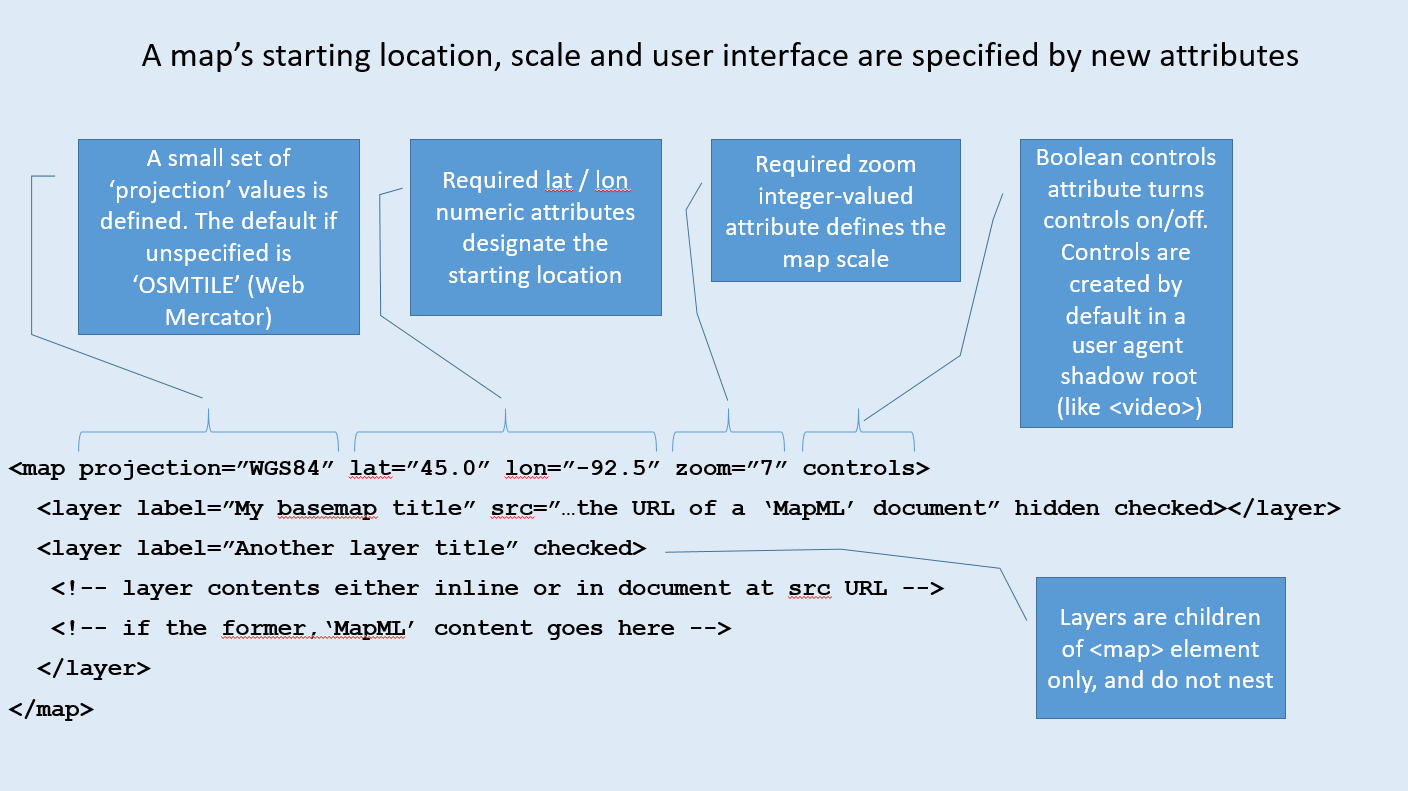
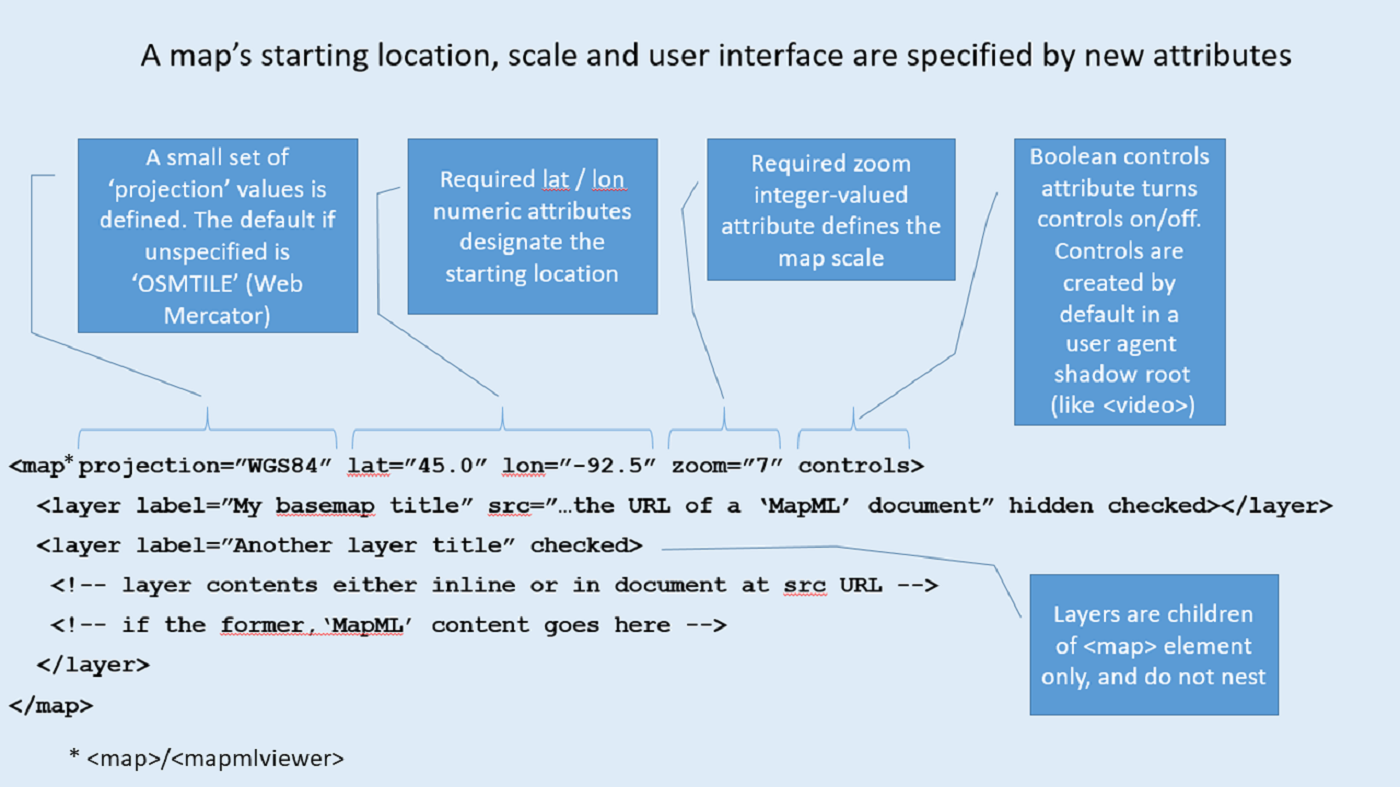
Revise and simplify top level explainer.

diff --git a/README.md b/README.md
@@ -8,149 +8,193 @@ Peter Rushforth
 
 <h2>Participate</h2>
 
-The W3C [Maps for HTML Community Group](https://www.w3.org/community/maps4html/)
-is iterating on the problem space.
-You can contribute to the on-going discussion and documentation of
-[Use Cases and Requirements for Standardizing Web Maps](https://maps4html.org/HTML-Map-Element-UseCases-Requirements/).
-Alternatively, if your organization is a member of the
-[Web Platform Incubator Community Group](https://www.w3.org/community/WICG/) (WICG)
-and you are able to contribute there but not elsewhere,
-please consider contributing through the [WICG forum on Web mapping](https://discourse.wicg.io/c/web-mapping/22).
+The W3C [Maps for HTML Community Group](https://www.w3.org/community/maps4html/) 
+is iterating on the problem space. 
+You can contribute to the on-going discussion and documentation of 
+[Use Cases and Requirements for Standardizing Web Maps](https://maps4html.org/HTML-Map-Element-UseCases-Requirements/). 
+Alternatively, if your organization is a member of the 
+[Web Platform Incubator Community Group](https://www.w3.org/community/WICG/) (WICG) 
+and you are able to contribute there but not elsewhere, 
+please consider contributing through the [WICG forum on Web mapping](https://discourse.wicg.io/c/web-mapping/22). 
 We would love to hear from you.
 
 [Issue tracker for this explainer](https://github.com/Maps4HTML/MapML-Proposal/issues)
 
 <h2 id="introduction">Introduction</h2>
 
-Web maps are a well-established domain of Web design, and there exist popular, mature open and closed source JavaScript libraries to create and manage Web maps.  JavaScript web maps are often containers for publicly available and funded open geospatial and statistical data.  Yet despite established JavaScript libraries and server-side API standards, Web maps remain a complex Web niche that is difficult to learn, due to their extensive prerequisite knowledge requirements. As a result, there exists a community of Web map developers which contributes very little to the Web platform and which may possess little understanding that the Web exists as a distinct and standards-based platform. Similarly, the Web platform seems mostly oblivious to Web maps and their requirements, and provides no direct support for maps. In other words, Web maps existence in the Web platform depends on intermediaries which “abstract away” the Web platform.  
+Web maps are a well-established class of Web application, and there exist popular, 
+mature open- and closed-source JavaScript frameworks to create and manage Web maps.  
+Web maps, considered from the perspective of the Extensible Web Manifesto, represent 
+a “high-level API”.  The many low-level browser APIs already used by the popular 
+JavaScript mapping frameworks demonstrate that Web maps may be a good fit for 
+inclusion into the Web platform standards at this time.  
 
-The goal of this proposal is to bridge the gap between the two communities in a way that may have positive benefits for both sides. On the one hand, the Web mapping community is burdened by intermediaries and the consequent barriers to widespread creation and use of maps and public map information. On the other hand, the Web platform, especially the mobile Web, needs more and better high-level features and less JavaScript. Simple yet extensible Web maps in HTML, that equally leverage the other platform standards, is the feature that both communities need to come together to improve usability and accessibility for users.
+MapML is the declarative API that results from our community’s effort to abstract 
+and polyfill Web mapping requirements as custom elements, using one of the mature 
+open source Web mapping frameworks so as to not have to start “from scratch”.  
+The process of polyfilling Web maps as MapML has also identified missing low-level 
+platform APIs that will be essential to complete the implementation of Web maps 
+as a standard platform feature.
 
 <h2>Contents</h2>
 
 - [The Problem](#the-problem)
 - [The Proposal](#the-proposal)
-  - [Goals](#goals)
-  <!-- - [Non-Goals](#non-goals) -->
-  - [A High-Level API](#a-high-level-api)
-  - [Key Scenarios](#key-scenarios)
+- [Goals](#goals)
+- [Use Cases and Requirements](#use-cases-and-requirements)
+- [Key Scenarios](#key-scenarios)
 - [Detailed design discussion](#detailed-design-discussion)
-  - [Use Cases and Requirements](#use-cases-and-requirements)
-  - [W3C/OGC Joint Workshop on Maps for the Web](#w3c-ogc-joint-workshop-on-maps-for-the-web)
 - [Considered Alternative Designs of MapML](#considered-alternative-designs-of-mapml)
-- [Alternative Approaches](#alternative-approaches)
 - [Stakeholder Feedback / Opposition](#stakeholder-feedback--opposition)
 - [References and Acknowledgements](#references-and-acknowledgements)
 
 <h2 id="the-problem">The Problem</h2>
 
-Web maps today are created using a wide range of technology stacks on both the client and server, some standard, some open, and some proprietary.  The complexity of choices and the wide variety of technologies required to create Web maps results in <a href="https://github.com/Malvoz/web-maps-wcag-evaluation/blob/master/README.md">maps of highly variable usability and accessibility</a>.  This has in turn led to the creation of centralized mapping services, that may or may not be implemented using Web technology; in some cases, mapping services which work well on desktop Web browsers mostly bypass the mobile Web through creation of mobile platform mapping apps, where the ‘rules of the Web platform’ (such as device permissions) do not apply.  Some centralized mapping services, both on the Web but especially on mobile technology platforms, are constructed for the purpose of tracking the user’s location and their locations of (search) interest, and using that private location information to market and re-sell highly targeted advertising. 
+Web maps are <span style="text-decoration:underline;">not interoperable</span>. 
+For example, users cannot “mash up” a Leaflet map and an OpenLayers map, two of 
+the most popular open source Web mapping frameworks, even if they show the same 
+exact data source in the exact same location.  (The situation is even more 
+non-interoperable between open map data and privately managed map databases, 
+where the sole client may be that provided by the owner of the map data. The 
+lack of legal interoperability of map data is outside the scope of standardization.)
 
-The problem to be solved, therefore, is to reduce the threshold complexity of creating accessible, usable and privacy-preserving Web maps, and to enable full use of Web platform standards such as HTML, URL, SVG, CSS and JavaScript in map creation, styling, presentation and interaction. 
+The lack of Web map interoperability affects developers. The skill set and 
+vocabulary required to create a robust map is different from one mapping framework 
+to the next. They can be complex to <span style="text-decoration:underline;">create</span>, 
+with visual styling of map information being a discipline that is generally 
+outside the realm of Web technology, and different from one mapping framework to 
+the next.
+
+Web maps are [typically not accessible](https://github.com/Malvoz/web-maps-wcag-evaluation/blob/master/README.md). 
+The knowledge required to <span style="text-decoration:underline;">use</span> Web 
+maps is different for each framework, with resulting accessibility challenges 
+arising from inconsistencies in user experience across frameworks.
+
+Location information is <span style="text-decoration:underline;">not searchable</span>, 
+except through specialized portals. Web maps are not crawlable; even if the JavaScript 
+that creates a Web map is executed by a crawler, the resulting DOM requires a 
+sighted user to interpret it, because it only has visual semantics.  The DOM created 
+also varies from framework to framework. As a result, users cannot search for 
+location information, embedded as it is in program code, except in specialized 
+mapping portals. Location search may be even more important for non-visual users 
+especially in a mobile context, but it is impossible because of today’s Web mapping 
+frameworks.
 
 <h2 id="the-proposal">The Proposal</h2>
 
-To solve <a href="#the-problem">the problem</a>, our approach is to identify the Web map processing that is currently performed by JavaScript libraries which should instead be defined - in accordance with the <a href="https://w3ctag.github.io/design-principles/">Web Platform Design Principles</a> - as elements and attributes supported by CSS, while at the same time, we identify the Web map processing that should remain in the JavaScript domain as a standardized DOM API. By building the core behaviour of maps and layers into HTML, Web authors who want to build simple maps into their pages can easily do so, supported by core platform technologies, with the power of JavaScript available to enhance the core map and layer behaviour.
+The proposal is to create accessible, searchable and usable Web maps, by integrating 
+mapping elements into HTML supported by the CSS and DOM standards.
 
-By lowering the barriers for Web map authors in this way, we will improve the usability, and standardize the accessibility of Web maps.  Through making map creation a matter of applying appropriately crafted Web platform standards, we will create the conditions to multiply the choices of mapping services offered to authors and users of the Web. 
+This extension to HTML would create a `&lt;map>/&lt;mapmlviewer>*` viewer widget 
+that contains default controls in a user agent shadow root, (similar to `&lt;video>` 
+today), with child `&lt;layer>` elements which are light DOM, which may either 
+refer to remote map source or contain map-related markup (the vocabulary of which 
+is also part of this proposal):
 
-In improving the choices among mapping services available through the Web platform, we will enable the growth of services that offer alternate means of paying for maps other than in exchange for the user’s personal private information, and we will enable standardized Web map accessibility through addition of maps to HTML. Finally, by making it cheaper to create Web maps than to build mobile apps, we will improve the business rationale for choosing the mobile Web as a development platform, and in doing so we hope the (mobile) Web will benefit from increased ‘success’, or network effects.
+```html
+<mapmlviewer zoom="11" lat="48.8566" lon="2.3522" controls controlslist="nolayer noreload" projection="OSMTILE">
+  <layer src="https://example.com/mapml/osm/" checked crossorigin></layer>
+  <!-- more layers as required -->
+</mapmlviewer>
+```
+
+Please review  the [user documentation](https://maps4html.org/web-map-doc/docs/) 
+for the proposed declarative syntax and semantics, with examples.
+
+\* The name of the eventual root map widget element will be determined in consultation 
+with browser teams. “&lt;map>” is used by an existing element, and it may be 
+impossible or undesirable to overload the behavior of that element.
 
 <h3 id="goals">Goals</h3>
 
-- Define the means to allow authors to create dynamic,
-usable and accessible Web maps about as easily as they can embed an image,
-a video or a podcast today.
-- Define and embed accessibility of map feature and location information into
-HTML for use by screen readers and other assistive technology.
-- Define and design security of map information considerations into the Web
-platform.
-- Define the markup to create mapping mashups that doesn’t necessarily require
-scripting or detailed mapping server technology knowledge
-i.e. that can be accomplished about as easily as linking to a document.
-- Simplify the use of public
-[spatial data infrastructures](https://en.wikipedia.org/wiki/Spatial_data_infrastructure)
-(SDI), such as
-[OpenStreetMap](https://wiki.openstreetmap.org/wiki/Main_Page)
-and national and international SDIs,
-by designing the integration of those services into the proposed Web platform
-mapping standards.
-- Defining and (advocate for) adding map-enabled HTML to the serialization
-formats available from existing spatial (map) content management systems,
-APIs and Web Services.
-
-<!--
-<h3 id="non-goals">Non-goals</h3>
-
-- Interoperability with the operating model or availability of existing spatial
-(map) content management systems, APIs and Web Services.
-For example, the evolving
-<a href="https://ogcapi.ogc.org/"><abbr title="Open Geospatial Consortium">OGC</abbr> API</a>
-standards.-->
-
-<h3 id="a-high-level-api">A High-Level API</h3>
-
-The <a href="https://extensiblewebmanifesto.org/">Extensible Web Manifesto</a> calls for iterative development and evolution of platform features, starting with low-level ‘primitives’ and resulting eventually in high-level features.  Although there are several low-level primitive proposals inherent or implicated in this proposal, overall this can be seen as a proposal for a high-level feature.  That feature is declarative dynamic Web maps in HTML.  Web mapping is a mature category of JavaScript library that is well into the stage of its development life cycle that some of the aggregate characteristics of those libraries should be incorporated into the platform.  As such, this proposal captures some of the ‘cow paths’ of open and closed source JavaScript Web mapping libraries, as well as taking into consideration how to incorporate server-side mapping services and APIs.
-
-The proposed extension would create a standard `<map>` widget that contains controls in a user agent shadow root, (similar to `<video>` today), with child `<layer>` elements which are in, and may contain, light DOM map-related markup (the vocabulary of which is also part of this proposal):
-
-```HTML
-<map zoom="11" lat="48.8566" lon="2.3522" controls controlslist="nolayer noreload">
-  <layer src="https://example.com/mapml/osm/" checked crossorigin></layer>
-</map>
-```
-<p><img src="images/map-example-paris.png" width="300" height="150" alt="Map of Paris"></p>
-
-*See the [High-Level API explainer](high-level-api.md) for details on the proposed elements and polyfill.*
-
-<h3 id="key-scenarios">Key Scenarios</h3>
-
-*See the [Key Scenarios explainer](key-scenarios.md) detailing:*
-
-- Tiled Coordinate Reference Systems
-- Linking
-
-<h2 id="detailed-design-discussion">Detailed design discussion</h2>
+* Allow authors to create dynamic, usable and accessible Web maps about as easily 
+as they can embed an image, a video or a podcast today, using markup, especially links.
+* Allow authors to create mapping mashups using markup. Use of markup doesn’t 
+necessarily require scripting development skills, or detailed map server technology 
+knowledge i.e. a mashup can be accomplished about as easily as linking to images 
+or videos..
+* Embed semantics of map feature and location information into HTML and browsers 
+for use by screen readers and other assistive technologies.
+* Simplify the use of public or private [spatial data infrastructures](https://en.wikipedia.org/wiki/Spatial_data_infrastructure) 
+(SDI), such as [OpenStreetMap](https://wiki.openstreetmap.org/wiki/Main_Page) 
+and national and international SDIs, by designing the integration of those services 
+into the proposed Web platform mapping standards.
+* Leverage existing spatial (map) content management systems, APIs and Web Services, 
+so that map content is immediately available.
 
 <h3 id="use-cases-and-requirements">Use Cases and Requirements</h3>
 
-This proposal is being [evaluated](https://github.com/Maps4HTML/MapML/labels/Requirements%20Evaluation)
-against the [Use Cases and Requirements for Standardizing Web Maps](https://maps4html.org/HTML-Map-Element-UseCases-Requirements/),
-to identify gaps between the required functionality and the polyfilled behaviour.
+This proposal presents the [Use Cases and Requirements for Standardizing Web Maps](https://maps4html.org/HTML-Map-Element-UseCases-Requirements/) 
+and our polyfill for review by the W3C community.
 
-See the [MapML UCR Fulfillment Matrix](https://maps4html.org/UCR-MapML-Matrix/mapml-ucrs-fulfillment-matrix.html)
-for how MapML compares in capabilities in contrast to existing popular web mapping libraries.
+<h3 id="key-scenarios">Key Scenarios</h3>
 
-<h3 id="w3c-ogc-joint-workshop-on-maps-for-the-web">W3C/OGC Joint Workshop on Maps for the Web</h3>
+See the Use Cases document for a comprehensive list of scenarios.  A few of the more important scenarios include:
 
-Natural Resources Canada hosted the 2020
-[W3C/OGC Joint Workshop Series on Maps for the Web](https://www.w3.org/2020/maps/)
-in cooperation with the Maps for HTML Community Group.
+* Simple, accessible, user-controllable mashups
+* Allow layers to be turned on/off by user
+* Accessible location information, styled using CSS
+* Accessible pan and zoom
+* Show the user’s location on a map
+* Web search for location information
+* Accessible display of routes between locations
+* Leverage existing geospatial content
+* APIs to support more performant, complex mapping applications
 
-See the [Report on the Joint W3C-OGC Workshop on Maps for the Web](https://www.w3.org/2020/maps/report).
+<h3 id="detailed-design-discussion">Detailed design discussion</h3>
+
+_See the [High-Level API explainer](https://github.com/Maps4HTML/MapML-Proposal/blob/main/high-level-api.md) for design details on proposed elements._
+
+_See the polyfill [user documentation](https://maps4html.org/web-map-doc/docs/elements/mapml-viewer/)._
+
 
 <h2 id="considered-alternative-designs-of-mapml">Considered alternative designs of MapML</h2>
 
-TBD - we have considered many alternatives, I have just run out of steam to document them, at the moment. Also this document is already quite long.  As things progress, I will add content here.
+Elements of MapML could be improved through discussion and further research, 
+especially by establishing an on-going collaboration between Web map framework 
+developers and Web platform experts and standards developers.  The Maps for HTML 
+Community Group believes that the specifications and polyfills established so far 
+form a reasonable starting point for further collaboration.  
 
-<h2 id="alternative-approaches">Alternative Approaches</h2>
-
-- [SVGMap](https://discourse.wicg.io/t/vector-tiling-on-svgmap/3135) - is it possible to merge the SVGMap proposal and this proposal? Or are they competing proposals?
-- APIs: [Leaflet](https://leafletjs.com/), [OpenLayers](https://openlayers.org/) and others, (albeit others without any notion of cross-origin resource sharing) provide excellent map scripting APIs and events.  Can these or similar APIs be built on top of the proposed HTML infrastructure? Would life be simpler for authors with the proposed HTML?
-- Status quo
+Such collaboration is essential to the success of the project, because of the 
+cross-disciplinary nature of the subject. On one hand, Web map framework developers 
+have the required detailed understanding of the spatial domain, including the 
+concepts of coordinate reference systems, spatial content management APIs, such 
+as OGC WMS, WMTS, WFS, as well as a working knowledge of Web technology and standards. 
+On the other hand, Web platform experts and standards developers possess the 
+understanding of not only Web architecture, technology and standards, but also Web 
+accessibility.  To succeed, this project requires a narrow collaboration between 
+these stakeholder groups.  
 
 <h2 id="stakeholder-feedback-opposition">Stakeholder Feedback / Opposition</h2>
 
-Some participants have said we should start over, because of the [sunk costs fallacy](https://en.m.wikipedia.org/wiki/Sunk_cost#Concorde_effect); that doesn’t seem to be in the spirit of iteration, nor hopefully is it correct to see this proposal as a waste of energy or money.  A better strategy would be to solicit concrete, actionable and incremental change requests.  It is in that spirit that the current explainer is offered. 
+Natural Resources Canada hosted the 2020 
+[W3C/OGC Joint Workshop Series on Maps for the Web](https://www.w3.org/2020/maps/) 
+in cooperation with the Maps for HTML Community Group.
 
-The objective of this project is to get Web browser projects to agree that Web maps as a high level feature are desirable and that the proposal is implementable, and _then_ to implement and ship the feature.  To get there from here, we need browser developer participation, the absence of which appears equivalent to opposition. So, there is work to do.
+The presentations and [conclusions](https://www.w3.org/2020/maps/report) of the 
+workshop participants were mostly positive, especially towards accessible Web map 
+standardization.  The most significant concerns raised were around Web gatekeeping, 
+and funding.
+
+In 2022, [Bocoup](https://www.w3.org/community/maps4html/participants?search=bocoup) 
+conducted HTTP Archive and Web developer research on the subject of Web platform maps, 
+which revealed that there is strong support among developers for simple, accessible 
+Web platform maps.  Their research also revealed that maps exist on about **16%** 
+of the pages included in the HTTP Archive.
+
+Bocoup also received the feedback from browser developers that support from map 
+framework developers would be important in any browser team’s decision to implement 
+the proposal.  Browser developers also told interviewers that a polyfill 
+implementation would make it possible for browser teams and others to readily 
+evaluate the proposal.
 
 <h2 id="references-and-acknowledgements">References and Acknowledgements</h2>
 
 Contributions, advice and support from the following people are gratefully acknowledged:
 
-Benoît Chagnon, Brian Kardell, Michael<sup>tm</sup> Smith, Robert Linder, Joan Masó, Keith Pomakis, Gil Heo, Jérôme St-Louis,  Amelia Bellamy-Royds, Nic Chan, Nick Fitzsimmons, Simon Pieters, Tom Kralidis, Daniel Morissette, Chris Hodgson, Ahmad Yama Ayubi, Bennett Feely, Doug Schepers
-
-If I’ve forgotten to mention you, please open an issue.
-
-Errors and omissions are certainly my own; if you spot a correction needed in the above, please open an issue. 
+Robert Linder, Simon Pieters, Anssi Kostiainen, Amelia Bellamy-Royds, Doug Schepers,  
+Brian Kardell, Boaz Sender, Ahmad Ayubi, Anshpreet Sandhu, Ben Lu, Aliyan Haq, 
+Michael<sup>tm</sup> Smith, Benoît Chagnon, Joan Masó, Keith Pomakis, Gil Heo, 
+Jérôme St-Louis, Nic Chan, Nick Fitzsimmons, Tom Kralidis, Daniel Morissette, 
+Chris Hodgson, Bennett Feely
